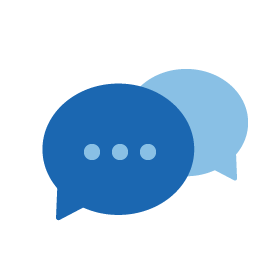
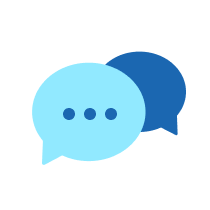
more color edits from abi's edits

Changed region(s): [[0.1429, 0.2286, 0.8857, 0.8]]

diff --git a/src/data/Values.js b/src/data/Values.js
@@ -1,7 +1,7 @@
-import growth from '../img/about/GrowthMindset2.png';
-import passion from '../img/about/InspiringPassion2.png';
-import tenacious from '../img/about/TenaciousProblemSolvers2.png';
-import nibfam from '../img/about/Nibfam2.png';
+import growth from '../img/about/GrowthMindset.png';
+import passion from '../img/about/InspiringPassion.png';
+import tenacious from '../img/about/TenaciousProblemSolvers.png';
+import nibfam from '../img/about/Nibfam.png';
 
 let values = [
     {
